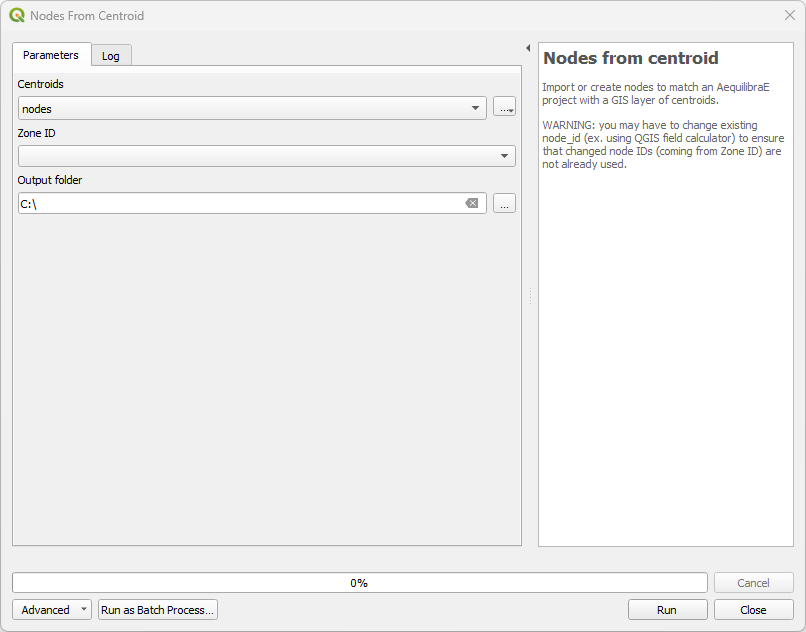
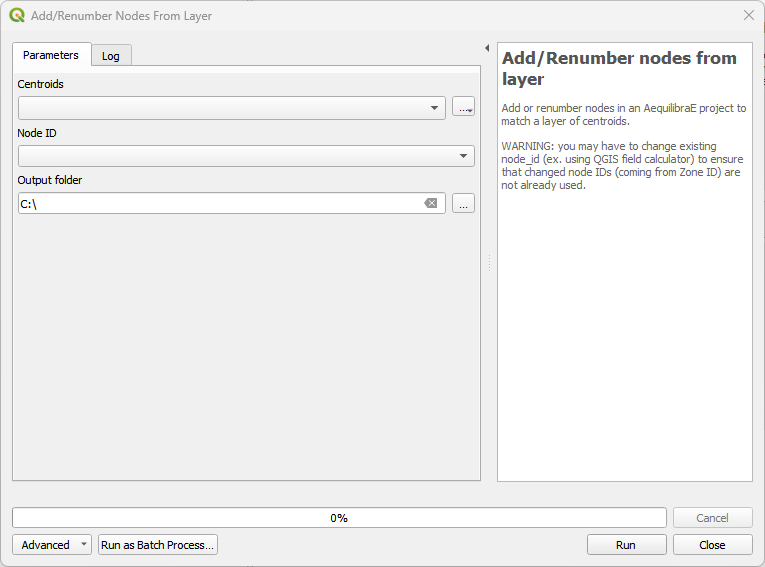
docs

diff --git a/qaequilibrae/modules/processing_provider/renumber_nodes_from_layer.py b/qaequilibrae/modules/processing_provider/renumber_nodes_from_layer.py
@@ -11,7 +11,7 @@ from qaequilibrae.modules.common_tools import standard_path
 from qaequilibrae.i18n.translate import trlt
 
 
-class RenumberNodesFromCentroids(QgsProcessingAlgorithm):
+class RenumberNodesFromLayer(QgsProcessingAlgorithm):
 
     def initAlgorithm(self, config=None):
         self.addParameter(
@@ -22,7 +22,7 @@ class RenumberNodesFromCentroids(QgsProcessingAlgorithm):
         self.addParameter(
             QgsProcessingParameterField(
                 "node_id",
-                self.tr("Zone ID"),
+                self.tr("Node ID"),
                 type=QgsProcessingParameterField.Numeric,
                 parentLayerParameterName="nodes",
                 allowMultiple=False,
@@ -107,13 +107,13 @@ class RenumberNodesFromCentroids(QgsProcessingAlgorithm):
                         zone[parameters["node_id"]]
                     )
                 )
-        feedback.pushInfo(self.tr("{} zones found in input layer.").format(df.shape[0]))
+        feedback.pushInfo(self.tr("{} nodes found in input layer.").format(df.shape[0]))
         if find > 0:
-            feedback.pushInfo(self.tr("{} zones found an existing matching node").format(find))
+            feedback.pushInfo(self.tr("{} centroids found an existing matching node").format(find))
         if create > 0:
-            feedback.pushInfo(self.tr("{} new nodes added for unmatched zones").format(create))
+            feedback.pushInfo(self.tr("{} new nodes added for unmatched centroids").format(create))
         if fail > 0:
-            feedback.pushInfo(self.tr("{} zones could not be processed").format(fail))
+            feedback.pushInfo(self.tr("{} centroids could not be processed").format(fail))
         feedback.pushInfo(" ")
 
         project.close()
@@ -122,10 +122,10 @@ class RenumberNodesFromCentroids(QgsProcessingAlgorithm):
         return {"Output": parameters["project_path"]}
 
     def name(self):
-        return self.tr("Nodes from centroid")
+        return self.tr("Add/Renumber nodes from layer")
 
     def displayName(self):
-        return self.tr("Nodes from centroid")
+        return self.tr("Add/Renumber nodes from layer")
 
     def group(self):
         return self.tr("Model Building")
@@ -137,15 +137,15 @@ class RenumberNodesFromCentroids(QgsProcessingAlgorithm):
         return f"{self.string_order(1)}\n{self.string_order(2)} {self.string_order(3)}"
 
     def createInstance(self):
-        return RenumberNodesFromCentroids()
+        return RenumberNodesFromLayer()
 
     def string_order(self, order):
         if order == 1:
-            return self.tr("Import or create nodes that match an AequilibraE project using a layer of centroids.")
+            return self.tr("Add or renumber nodes in an AequilibraE project to match a layer of centroids.")
         elif order == 2:
             return self.tr("WARNING: you may have to change existing node_id (ex. using QGIS field calculator)")
         elif order == 3:
             return self.tr("to ensure that changed node IDs (coming from Zone ID) are not already used.")
 
     def tr(self, message):
-        return trlt("RenumberNodesFromCentroids", message)
+        return trlt("RenumberNodesFromLayer", message)

diff --git a/qaequilibrae/modules/processing_provider/assign_from_yaml.py b/qaequilibrae/modules/processing_provider/assign_from_yaml.py
@@ -134,7 +134,7 @@ class TrafficAssignYAML(QgsProcessingAlgorithm):
         return self.tr("Paths and assignment")
 
     def shortHelpString(self):
-        return f"{self.string_order(1)}\n {self.string_order(2)}\n {self.string_order(3)}"
+        return "\n".join([self.string_order(1), self.string_order(2), self.string_order(3)])
 
     def createInstance(self):
         return TrafficAssignYAML()
@@ -146,10 +146,8 @@ class TrafficAssignYAML(QgsProcessingAlgorithm):
             return self.tr("Example of valid configuration file:")
         elif order == 3:
             return """
-                    Project: D:/AequilibraE/Project/
-
+                    project: D:/AequilibraE/Project/
                     result_name: sce_from_yaml
-
                     traffic_classes:
                         - car:
                             matrix_path: D:/AequilibraE/Project/matrices/demand.aem
@@ -166,8 +164,7 @@ class TrafficAssignYAML(QgsProcessingAlgorithm):
                             fixed_cost: toll
                             vot: 12
                             blocked_centroid_flows: True
-
-                    Assignment:
+                    assignment:
                         algorithm: bfw
                         vdf: BPR2
                         alpha: 0.15

diff --git a/test/test_processing_provider.py b/test/test_processing_provider.py
@@ -22,7 +22,7 @@ from qaequilibrae.modules.processing_provider.matrix_from_layer import MatrixFro
 from qaequilibrae.modules.processing_provider.project_from_layer import ProjectFromLayer
 from qaequilibrae.modules.processing_provider.Add_connectors import AddConnectors
 from qaequilibrae.modules.processing_provider.assign_from_yaml import TrafficAssignYAML
-from qaequilibrae.modules.processing_provider.renumber_from_centroids import RenumberNodesFromCentroids
+from qaequilibrae.modules.processing_provider.renumber_nodes_from_layer import RenumberNodesFromLayer
 
 
 def qgis_app():
@@ -220,7 +220,7 @@ def test_renumber_from_centroids(ae_with_project):
 
     nodeslayer.commitChanges()
 
-    action = RenumberNodesFromCentroids()
+    action = RenumberNodesFromLayer()
 
     parameters = {"nodes": nodeslayer, "node_id": "id", "project_path": project_folder}
 

diff --git a/qaequilibrae/modules/processing_provider/provider.py b/qaequilibrae/modules/processing_provider/provider.py
@@ -20,12 +20,12 @@ class Provider(QgsProcessingProvider):
         from .export_matrix import ExportMatrix
         from .matrix_from_layer import MatrixFromLayer
         from .project_from_layer import ProjectFromLayer
-        from .renumber_from_centroids import RenumberNodesFromCentroids
+        from .renumber_nodes_from_layer import RenumberNodesFromLayer
 
         self.addAlgorithm(MatrixFromLayer())
         self.addAlgorithm(ExportMatrix())
         self.addAlgorithm(ProjectFromLayer())
-        self.addAlgorithm(RenumberNodesFromCentroids())
+        self.addAlgorithm(RenumberNodesFromLayer())
         self.addAlgorithm(AddConnectors())
         self.addAlgorithm(TrafficAssignYAML())
 

diff --git a/qaequilibrae/modules/processing_provider/matrix_from_layer.py b/qaequilibrae/modules/processing_provider/matrix_from_layer.py
@@ -164,7 +164,7 @@ class MatrixFromLayer(QgsProcessingAlgorithm):
         return self.tr("Data")
 
     def shortHelpString(self):
-        return "\n".join([self.string_order(1), self.string_order(2), self.tring_order(3), self.string_order(4)])
+        return "\n".join([self.string_order(1), self.string_order(2), self.string_order(3), self.string_order(4)])
 
     def createInstance(self):
         return MatrixFromLayer()

diff --git a/docs/source/processing_provider/readme.rst b/docs/source/processing_provider/readme.rst
@@ -2,21 +2,21 @@ Processing Tools
 ================
 
 Some of AequilibraE's plugin functionalities are now available in a Processing plugin.
-The processing plugin is automatically installed with AequilibraE, and allows the user to 
+The processing plugin is automatically installed with AequilibraE and allows the user to 
 create projects from links, export matrices, and much more. The processing plugin usage
 does not require open AequilibraE projects, although it is mandatory to have AequilibraE
 installed.
 
 To find AequilibraE's processing plugin, click on the **Processing** panel and select **Toolbox**.
-You can also use the available QGIS shortcut to open the Toolbox window. 
+You can also use the available QGIS shortcut to open the Toolbox window.
 
 .. image:: ../images/processing_provider_init.png
     :align: center
     :alt: Processing provider menu
 
-At the bottom of the window, you'll find the AequilibraE logo, and the available functions. 
+At the bottom of the window, you'll find the AequilibraE logo and the available functions.
 The functions are divided into three groups, following the same logic as the AequilibraE Widget
-menu. Notice that not all AequilibraE's functionalities are available for processing.
+menu. Notice that not all AequilibraE functionalities are available for processing.
 
 .. subfigure:: AB
     :align: center
@@ -29,14 +29,14 @@ menu. Notice that not all AequilibraE's functionalities are available for proces
 
 In the following subsections, we'll go over all functionalities.
 
-Data 
+Data
 ----
 Export matrices
 ~~~~~~~~~~~~~~~
 The *Export matrices* tool is analogous to the *Export* button in the matrix viewer 
-(see: :ref:`this figure <fig_data_visualize_loades_matrices>` for more details). 
-Its usage is straightforward: select the matrix we want to export, point the path
-in our machine to store the file, and select its output format. Only \*.aem and \*.omx files can 
+(see: :ref:`this figure <fig_data_visualize_matrices>` for more details). 
+Its usage is straightforward: select the matrix you want to export, specify the path
+on your machine to store the file, and select its output format. Only \*.aem and \*.omx files can 
 be used as input, and the output format can be either one of \*.aem, \*.omx, or \*.csv.
 
 .. image:: ../images/processing_provider_export_matrices.png
@@ -45,8 +45,8 @@ be used as input, and the output format can be either one of \*.aem, \*.omx, or 
 
 Import matrices
 ~~~~~~~~~~~~~~~
-With *Import matrices* the user can save an open data layers directly as \*.aem file. 
-This tool is analogous to the widget menu :ref:`importing_matrices`, however it does not
+With *Import matrices*, the user can save an open data layer directly as a \*.aem file.
+This tool is analogous to the widget menu :ref:`importing_matrices`, but it does not
 require an open AequilibraE project to work. To use the tool, the user must have an open layer
 loaded in QGIS, and the menus are the ones presented in the figure below.
 
@@ -54,53 +54,53 @@ loaded in QGIS, and the menus are the ones presented in the figure below.
     :align: center
     :alt: Processing provider import matrices
 
-The upper fields are mandatory, and are the ones responsible for selecting the layer, point
-which columns are equivalent to the origin, destination, and the flow, create a file name, and
-point the destination folder. In the *Advanced Parameters*, the user will find fields to add
-extra informations on the AequilibraE matrix they're about to create.
+The upper fields are mandatory and are responsible for selecting the layer, indicating
+which columns correspond to the origin, destination, and flow, creating a file name, and
+specifying the destination folder. In the *Advanced Parameters*, the user will find fields to add
+extra information to the AequilibraE matrix they are about to create.
 
 Model Building
 --------------
 Add centroid connectors
 ~~~~~~~~~~~~~~~~~~~~~~~
-AequilibraE's processing tool can also add centroid connectors to a project's network. The user only
-need to add the number of centroids one wants to add, the modes to be connected, and point to the project
-folder. The default connection mode is **c** (car).
+AequilibraE's processing tool can also add centroid connectors to a project's network. The user
+needs to specify the number of centroids, the modes to be connected, and the project folder.
+The default connection mode is **c** (car).
 
 .. image:: ../images/processing_provider_centroids.png
     :align: center
-    :alt: Processing provider create project from link layer
+    :alt: Processing provider add centroid connectors
 
 Create project from link layer
 ~~~~~~~~~~~~~~~~~~~~~~~~~~~~~~
 *Create project from link layer* is similar to the widget menu 
 :ref:`Create project from layers <project_from_layers>`, and allows the user to create an AequilibraE 
-project straight from a link layer, without requiring a node layer. With a geometric layer loaded into
+project directly from a link layer, without requiring a node layer. With a geometric layer loaded into
 QGIS, select it in the *Links* button, and add the required data in the subsequent menus. Choose the project's
-name and point to the location you want to save it in your machine. 
+name and specify the location where you want to save it on your machine.
 
 .. image:: ../images/processing_provider_project_from_links.png
     :align: center
     :alt: Processing provider create project from link layer
 
-Nodes from centroid
-~~~~~~~~~~~~~~~~~~~
-One can also import or create nodes to match one AequilibraE project with a GIS layer of centroids.
-Just select or import the centroids layer, point to the desired zones one wants to match and to the output
+Add/Renumber nodes from layer
+~~~~~~~~~~~~~~~~~~~~~~~~~~~~~
+One can also add or renumber nodes in an AequilibraE project to match a layer of centroids.
+Just select or import the centroids layer, specify the node ID you want to match, and the output
 folder.
 
 .. image:: ../images/processing_provider_nodes_from_centroids.png
     :align: center
-    :alt: Processing provider create project from link layer
+    :alt: Processing provider update nodes from centroids
 
 Paths and assignment
 --------------------
 Traffic assignment from file
 ~~~~~~~~~~~~~~~~~~~~~~~~~~~~
-AequilibraE traffic assignment can now be performed using an YAML file that contains the model input
-information. The process is also straightforward: create a valid YAML file, with pyour project path,
-required matrices and valid parameters, and load it into AequilibraE. The code block belows contains
-an example of valid YAML.
+AequilibraE traffic assignment can now be performed using a YAML file that contains the model input
+information. The process is straightforward: create a valid YAML file with your project path,
+required matrices, and valid parameters, and load it into AequilibraE. The code block below contains
+an example of a valid YAML configuration.
 
 .. image:: ../images/processing_provider_traffic_assignment.png
     :align: center
@@ -109,33 +109,22 @@ an example of valid YAML.
 .. code-block:: yaml
     :caption: YAML configuration example
 
-    Project: D:/AequilibraE/Project/
-
-    Run_name: sce_from_yaml
-
-    Traffic_classes:
+    project: path_to_aequilibrae_project
+    result_name: name_of_result_file_to_save
+    traffic_classes:
         - car:
-            matrix_path: D:/AequilibraE/Project/matrices/demand.aem
-            matrix_core: car
+            matrix_path: path_to_aequilibrae_project/matrices/demand.aem
+            matrix_core: matrix
             network_mode: c
             pce: 1
             blocked_centroid_flows: True
-            skims: travel_time, distance
-        - truck:
-            matrix_path: D:/AequilibraE/Project/matrices/demand.aem
-            matrix_core: truck
-            network_mode: c
-            pce: 2
-            fixed_cost: toll
-            vot: 12
-            blocked_centroid_flows: True
-
-    Assignment:
+            skims: free_flow_time, distance
+    assignment:
         algorithm: bfw
         vdf: BPR2
         alpha: 0.15
-        beta: power
+        beta: 4.0
         capacity_field: capacity
-        time_field: travel_time
-        max_iter: 250
-        rgap: 0.00001
+        time_field: free_flow_time
+        max_iter: 10
+        rgap: 0.001

diff --git a/docs/source/menus_in_detail/data.rst b/docs/source/menus_in_detail/data.rst
@@ -43,6 +43,8 @@ than one view, you can select the desired view using the dropdown buttons at the
 they are represented by the dropdowns containing *distance_blended* and *main_index*. To save your current matrix 
 into \*.csv format, just click in the *export* button in the lower left corner of the window.
 
+.. _fig_data_visualize_matrices:
+
 .. image:: ../images/data-visualize-loaded-matrix.png
     :align: center
     :alt: data visualize matrices
